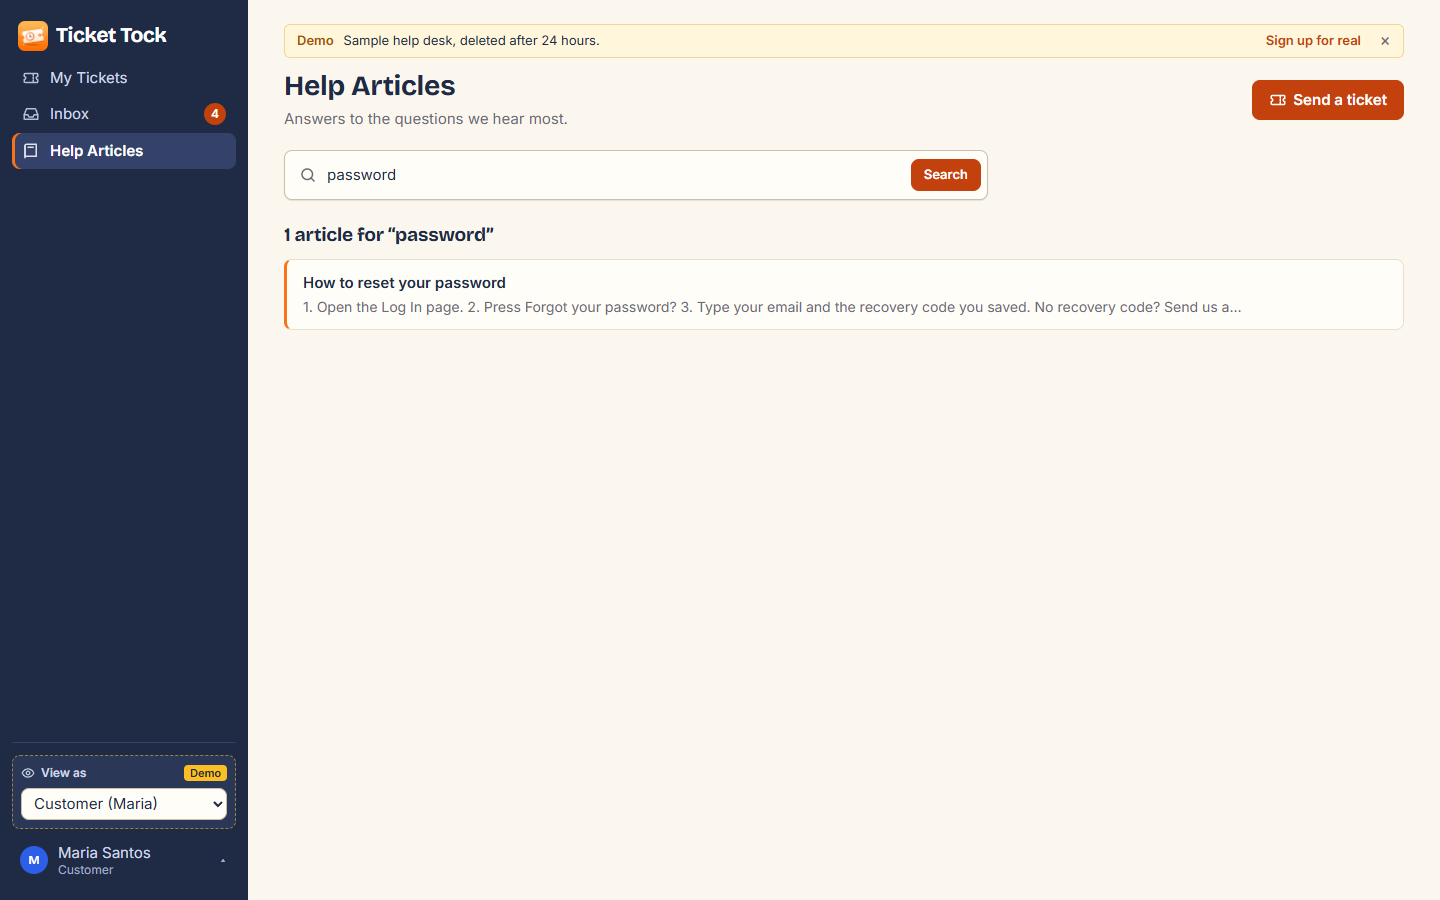
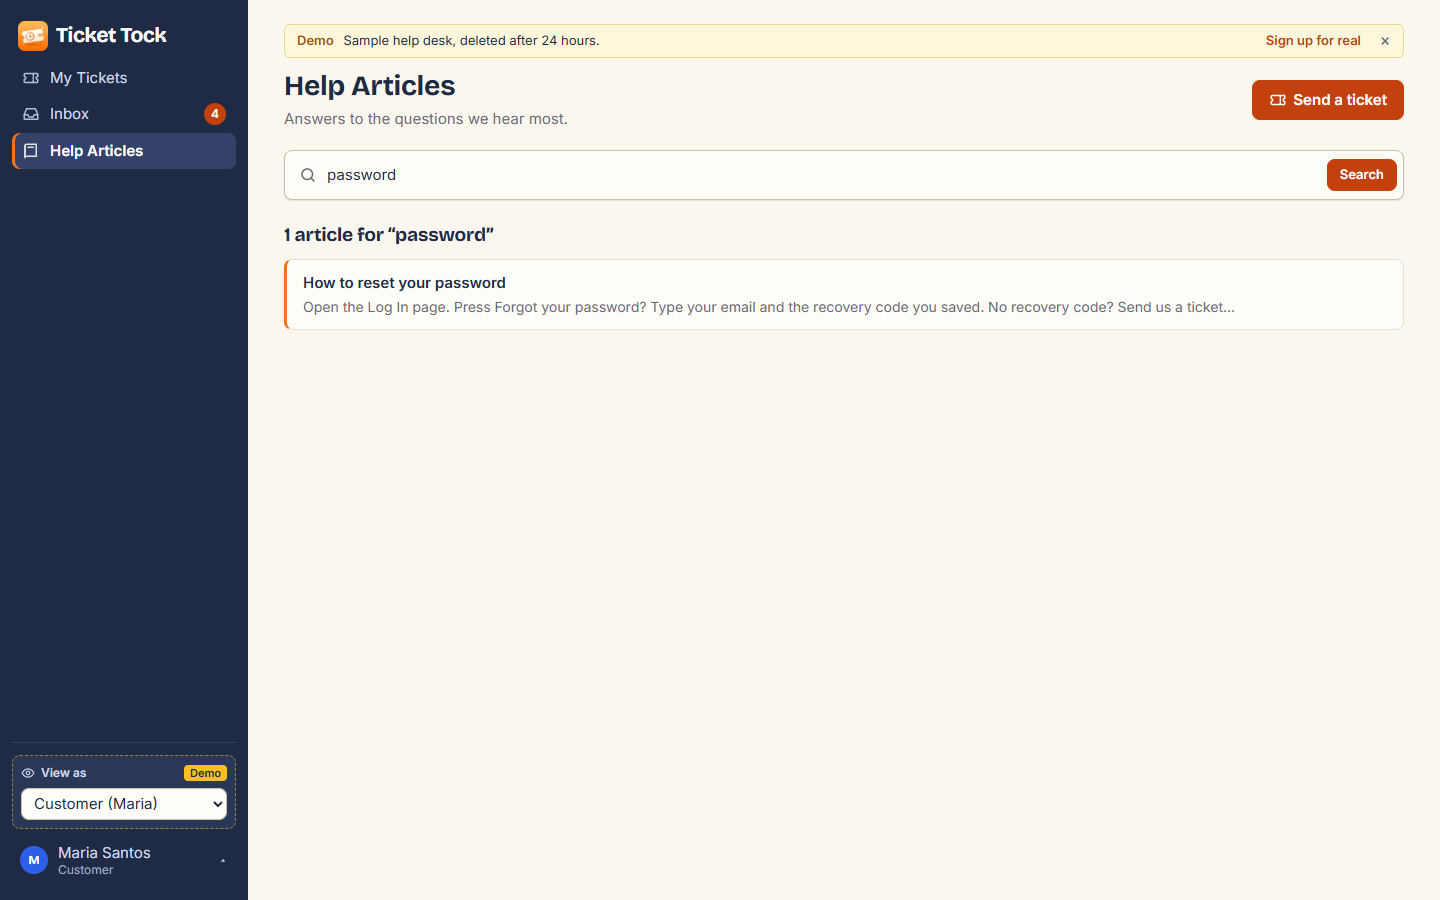
Help Articles use the whole window
- Visitors (not logged in) get a top bar across the whole window (logo,
  Help Articles, Log in, Sign up), and the page is as wide as the logged-in
  pages instead of a narrow middle column
- The search box fills its row
- An article has a side column: "Still stuck?" with a Send a ticket button,
  and more articles from the same category; the text keeps a reading width
- Article previews in lists are plain text (no "-" or "1." from Markdown)
- New README picture of an article (help-article.png); screenshots retaken;
  352 tests

Changed region(s): [[0.2188, 0.3111, 0.8438, 0.3733], [0.9062, 0.1556, 0.9688, 0.2178], [0.625, 0.1556, 0.6875, 0.2178]]

diff --git a/tickettock/templates/help/article.html b/tickettock/templates/help/article.html
@@ -3,9 +3,10 @@
 {% from "_icons.html" import icon %}
 {% block title %}{{ article.title }} - {{ APP_NAME }}{% endblock %}
 {% block body_class %}{% if not g.user %}public-layout{% endif %}{% endblock %}
+{% block public_top %}{% if not g.user %}{% include "_public_top.html" %}{% endif %}{% endblock %}
 {% block content %}
-  {% if not g.user %}{% include "_public_top.html" %}{% endif %}
   <a class="back-link" href="{{ url_for('help.index') }}">{{ icon('back', 16) }} Help Articles</a>
+  <div class="article-layout">
   <article class="card help-article">
     <header class="help-head">
       <p class="kicker">{{ article.category.name if article.category else 'General' }}{% if not article.is_published %} &middot; Draft: only the team sees it{% endif %}</p>
@@ -23,10 +24,29 @@
           <button class="button button-small {{ 'button' if my_vote == false else 'button-quiet' }}" type="submit" name="helpful" value="0">No</button>
         </form>
       {% endif %}
-      <p class="muted">Still stuck? <a href="{{ url_for('tickets.new') }}">Send us a ticket</a>.</p>
       {% if can.can_manage_articles(g.user) %}
         <a class="button button-quiet" href="{{ url_for('help.edit', article_id=article.id) }}">{{ icon('pencil', 16) }} Edit article</a>
       {% endif %}
     </footer>
   </article>
+
+  <aside class="side-panel">
+    {% if not (g.user and g.user.is_staff) %}
+      <section class="card stuck-card">
+        <h2>Still Stuck?</h2>
+        <p class="muted small">Send us a ticket and the support team will help.</p>
+        <a class="button button-wide" href="{{ url_for('tickets.new') }}">{{ icon('ticket', 16) }} Send a ticket</a>
+      </section>
+    {% endif %}
+    {% if more %}
+      <section class="card">
+        <h2>{{ 'More in ' ~ article.category.name if article.category and same_category else 'More Help Articles' }}</h2>
+        <ul class="more-articles">
+          {% for other in more %}<li><a href="{{ url_for('help.show', article_id=other.id) }}">{{ other.title }}</a></li>{% endfor %}
+        </ul>
+        <p class="small section-gap"><a href="{{ url_for('help.index') }}">All Help Articles</a></p>
+      </section>
+    {% endif %}
+  </aside>
+  </div>
 {% endblock %}

diff --git a/tickettock/static/style.css b/tickettock/static/style.css
@@ -836,11 +836,15 @@ a.stat:hover { border-color: var(--accent); }
 /* ---------- Pages without the menu (Help Articles for visitors, errors) ---------- */
 
 .app:not(:has(> .sidebar)) { display: block; }
-.public-layout .page { margin: 0 auto; max-width: 64rem; }
+/* Visitors' pages: a top bar across the whole window, then the page as wide as everywhere else. */
+.public-layout .page { margin: 0 auto; }
 .public-top {
-  display: flex; justify-content: space-between; align-items: center; gap: 1rem; margin: -0.25rem 0 1.5rem;
-  padding: 0.625rem 1rem; background: var(--sidebar); border-radius: var(--radius);
+  display: flex; justify-content: space-between; align-items: center; gap: 1rem; flex-wrap: wrap;
+  padding: 0.75rem 1rem; background: var(--sidebar);
 }
+@media (min-width: 56rem) { .public-top { padding: 0.875rem 2.25rem; } }
+.public-link { color: var(--sidebar-text) !important; font-weight: 600; font-size: 0.875rem; margin-right: 0.5rem; }
+.search-box.search-wide { max-width: none; }
 .welcome-help { font-size: 0.875rem; color: var(--muted); }
 
 /* ---------- Pictures ---------- */
@@ -1118,3 +1122,13 @@ input[type="time"] { width: 9.5rem; max-width: 100%; }
 .more-filters summary::-webkit-details-marker { display: none; }
 .filters-more-row { display: flex; flex-wrap: wrap; gap: 0.5rem; margin-top: 0.5rem; }
 .page-head > div:first-child { flex: 1 1 24rem; min-width: 0; }  /* the title shares its row with the main button */
+
+/* An article: the text at a reading width, with a side column (Still stuck?, more articles). */
+.article-layout { display: grid; gap: 1.25rem; }
+@media (min-width: 64rem) { .article-layout { grid-template-columns: minmax(0, 1fr) 20rem; align-items: start; } }
+.article-layout .help-article { max-width: none; }
+.article-layout .prose { max-width: 48rem; }
+.stuck-card { display: grid; gap: 0.625rem; border-top: 3px solid var(--accent-bright); }
+.stuck-card h2, .side-panel .card h2 { margin-bottom: 0; }
+.more-articles { display: grid; gap: 0.5rem; font-size: 0.9375rem; }
+.more-articles a { font-weight: 600; }

diff --git a/tickettock/templates/help/index.html b/tickettock/templates/help/index.html
@@ -2,8 +2,8 @@
 {% from "_icons.html" import icon %}
 {% block title %}Help Articles - {{ APP_NAME }}{% endblock %}
 {% block body_class %}{% if not g.user %}public-layout{% endif %}{% endblock %}
+{% block public_top %}{% if not g.user %}{% include "_public_top.html" %}{% endif %}{% endblock %}
 {% block content %}
-  {% if not g.user %}{% include "_public_top.html" %}{% endif %}
   <div class="page-head">
     <div>
       <h1>Help Articles</h1>
@@ -16,7 +16,7 @@
     {% endif %}
   </div>
 
-  <form method="get" class="search-box" role="search">
+  <form method="get" class="search-box search-wide" role="search">
     {{ icon('search') }}
     <label class="visually-hidden" for="help-q">Search Help Articles</label>
     <input type="search" id="help-q" name="q" value="{{ q }}" placeholder="Search, for example: password">

diff --git a/tickettock/templates/base.html b/tickettock/templates/base.html
@@ -22,6 +22,8 @@
   <a class="skip-link" href="#main">Skip to content</a>
   <div class="{% block layout_class %}app{% endblock %}">
     {% block sidebar %}{% if g.user %}{% include "_sidebar.html" %}{% endif %}{% endblock %}
+    {# Pages open to visitors (Help Articles) put a full-width top bar here instead of the menu. #}
+    {% block public_top %}{% endblock %}
     <main id="main" class="page {% block page_class %}{% endblock %}">
       {% block notes %}
       {% if g.user and g.user.is_demo %}

diff --git a/tickettock/templates/_public_top.html b/tickettock/templates/_public_top.html
@@ -3,6 +3,7 @@
 <header class="public-top">
   <a class="logo" href="{{ url_for('auth.login') }}">{{ logo() }} {{ APP_NAME }}</a>
   <nav class="head-actions" aria-label="Account">
+    <a class="public-link" href="{{ url_for('help.index') }}">Help Articles</a>
     <a class="button button-quiet button-small" href="{{ url_for('auth.login') }}">Log in</a>
     <a class="button button-small" href="{{ url_for('auth.signup') }}">Sign up</a>
   </nav>

diff --git a/tickettock/templates/help/_row.html b/tickettock/templates/help/_row.html
@@ -2,5 +2,5 @@
 <li class="article-row">
   <a href="{{ url_for('help.show', article_id=article.id) }}">{{ article.title }}</a>
   {% if not article.is_published %}<span class="badge badge-off">Draft</span>{% endif %}
-  <span class="article-snippet">{{ article.body|striptags|replace('#', '')|replace('*', '')|truncate(140) }}</span>
+  <span class="article-snippet">{{ article.body|markdown|striptags|truncate(140) }}</span>
 </li>

diff --git a/tests/test_extras.py b/tests/test_extras.py
@@ -6,7 +6,7 @@ from PIL import Image
 from sqlalchemy import select
 
 from tickettock import db
-from tickettock.models import Article, Attachment, Notification, Ticket
+from tickettock.models import Article, Attachment, Category, Notification, Ticket
 
 from .conftest import browser, get_ticket, make_team, make_ticket, post
 
@@ -199,3 +199,21 @@ def test_stars_must_be_one_to_five(app, team):
     number = make_ticket(app, team["customer"], status="closed")
     post(browser(app, team["customer"]), f"/tickets/{number}/rate", {"stars": "9"})
     assert get_ticket(app, number).rating is None
+
+
+def test_visitors_get_a_full_width_top_bar(app, team):
+    text = page(app.test_client(), "/help")
+    # The bar sits outside the page column (in the layout, before <main>), so it spans the window.
+    assert text.index('class="public-top"') < text.index('<main')
+
+
+def test_an_article_shows_more_from_its_category_and_a_way_to_ask(app, team):
+    with app.app_context():
+        billing = db.session().scalar(select(Category.id).where(Category.name == "Billing"))
+    lead = browser(app, team["lead"])
+    for title in ("Why was I charged twice?", "Getting a refund"):
+        post(lead, "/help/new", {"title": title, "body": "Words.", "category_id": str(billing), "publish": "1"})
+    with app.app_context():
+        first = db.session().scalar(select(Article.id).where(Article.title == "Why was I charged twice?"))
+    text = page(browser(app, team["customer"]), f"/help/{first}")
+    assert "More in Billing" in text and "Getting a refund" in text and "Still Stuck?" in text

diff --git a/docs/take_screenshots.py b/docs/take_screenshots.py
@@ -49,6 +49,7 @@ PAGES = [
     ("audit-log.png", "/audit", "light", DESKTOP, "lead"),
     ("help.png", "/help", "light", DESKTOP, None),
     ("help-search.png", "/help?q=password", "light", DESKTOP, "customer"),
+    ("help-article.png", "/help?q=refund", "light", DESKTOP, "customer"),  # opens the first result
     ("staff.png", "/admin/staff", "light", DESKTOP, "admin"),
     ("categories.png", "/admin/categories", "light", DESKTOP, "admin"),
     ("time-limits.png", "/admin/hours", "light", DESKTOP, "admin"),
@@ -108,6 +109,9 @@ def main():
                     subject, _, rest = address[1:].partition("}")
                     address = urls[subject] + rest
             page.goto(BASE + address)
+            if name == "help-article.png":
+                page.locator(".article-row a").first.click()
+                page.wait_for_load_state("networkidle")
             if name == "new-ticket.png":
                 page.locator("input[name=subject]").press_sequentially("I forgot my password", delay=30)
                 page.wait_for_timeout(1200)  # the Help Article suggestions

diff --git a/tickettock/help.py b/tickettock/help.py
@@ -71,3 +71,11 @@ def my_vote(s, article, user):
         return None
     return s.scalar(select(ArticleVote.helpful).where(ArticleVote.article_id == article.id,
                                                       ArticleVote.user_id == user.id))
+
+
+def more_like(s, user, desk, article, limit=5):
+    """Other published articles for the side of an article: (articles, all from its category?).
+    The same category first; when it has no others, any other articles."""
+    others = [other for other in visible(s, user, desk) if other.id != article.id and other.is_published]
+    same = [other for other in others if article.category_id and other.category_id == article.category_id]
+    return (same[:limit], True) if same else (others[:limit], False)

diff --git a/tickettock/views/help.py b/tickettock/views/help.py
@@ -48,8 +48,9 @@ def show(article_id):
                   .execution_options(synchronize_session=False))
         s.commit()
     helpful, not_helpful = articles.votes(s, article)
+    more, same_category = articles.more_like(s, g.user, _desk(), article)
     return render_template("help/article.html", article=article, helpful=helpful, not_helpful=not_helpful,
-                           my_vote=articles.my_vote(s, article, g.user))
+                           my_vote=articles.my_vote(s, article, g.user), more=more, same_category=same_category)
 
 
 @bp.post("/<int:article_id>/vote")

diff --git a/README.md b/README.md
@@ -117,9 +117,13 @@ A ticket moves through these steps:
 |---|---|---|
 | ![My Tickets](docs/screenshots/my-tickets.png) | ![New ticket](docs/screenshots/new-ticket.png) | ![Customer ticket](docs/screenshots/customer-ticket.png) |
 
-| Rating | Help Articles | Search |
+| Rating | Help Articles (visitors) | Search |
 |---|---|---|
 | ![Rating](docs/screenshots/rating.png) | ![Help](docs/screenshots/help.png) | ![Help search](docs/screenshots/help-search.png) |
+
+| A Help Article |
+|---|
+| ![Help article](docs/screenshots/help-article.png) |
 
 ### Insights
 
